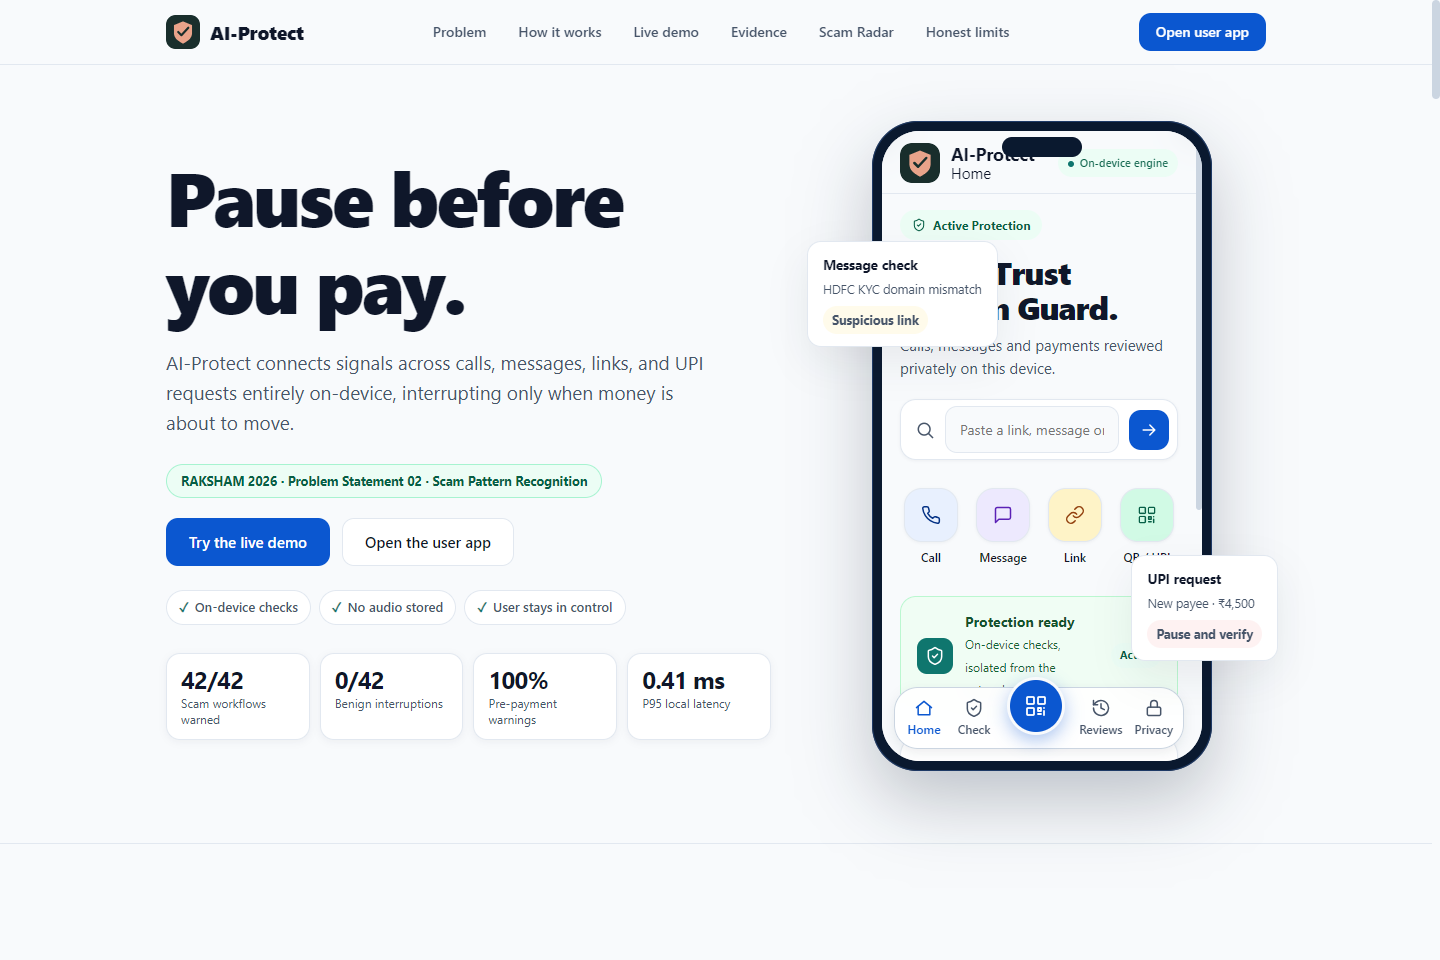
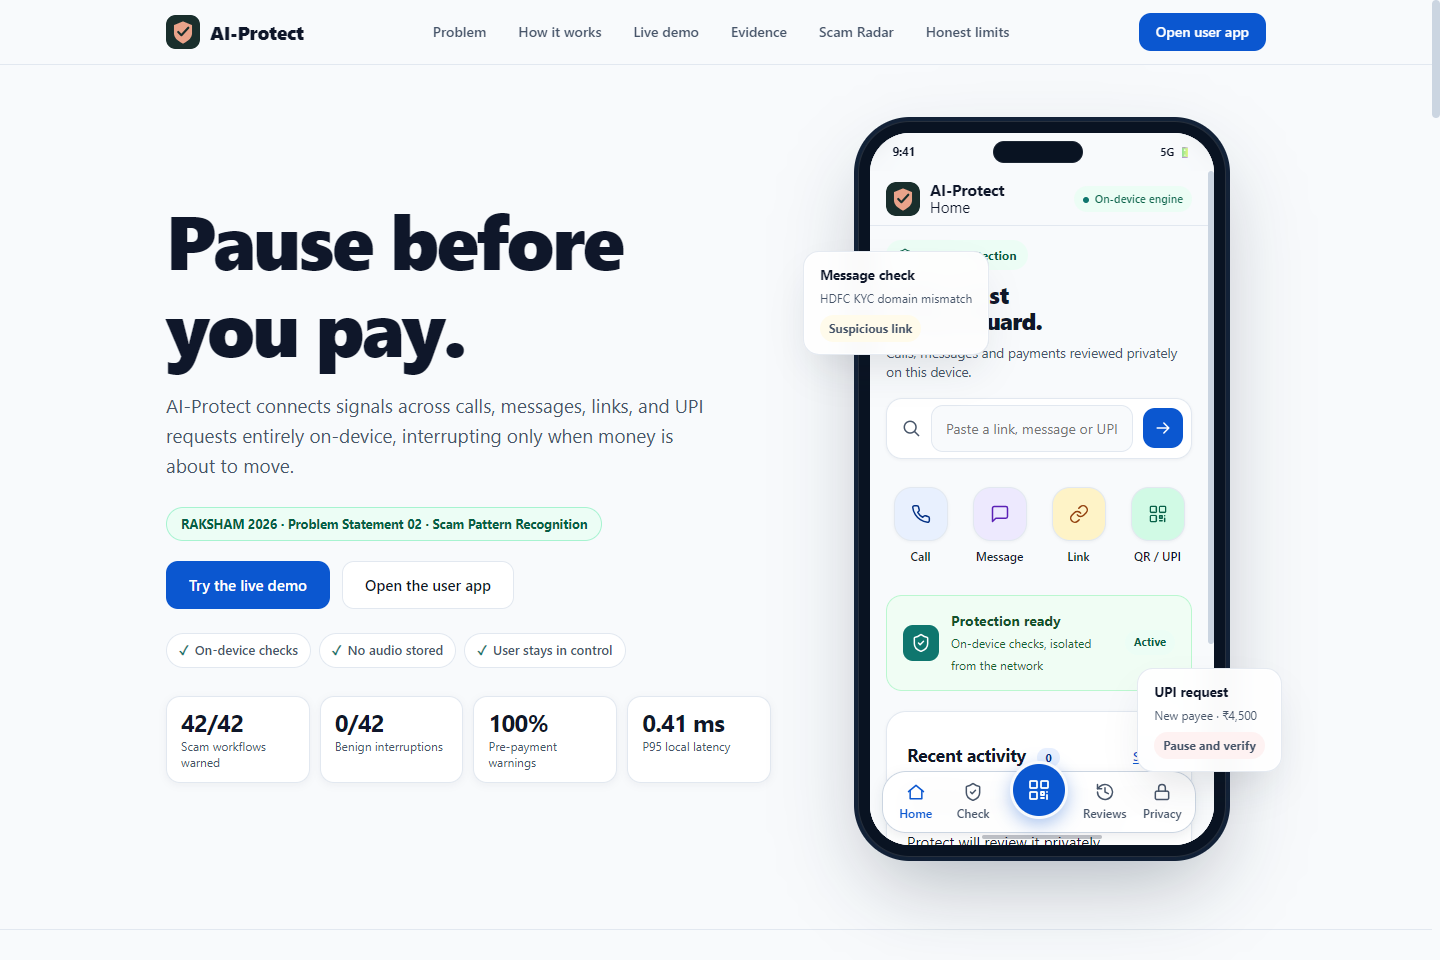
style(impeccable): refine phone mockup shell, balance metrics grid, and polish mobile typography

diff --git a/web/site/site.css b/web/site/site.css
@@ -307,54 +307,111 @@ p { margin: 0 0 14px; }
   display: flex;
   justify-content: center;
   align-items: center;
-  min-height: 640px;
+  min-height: 720px;
 }
 .phone {
   position: relative;
-  width: 340px;
-  height: 650px;
-  border-radius: 46px;
-  background: var(--navy);
-  padding: 10px;
-  box-shadow: 0 30px 70px rgba(10, 25, 47, 0.25), 0 0 0 1px #1e3a66 inset;
+  width: 368px;
+  height: 736px;
+  border-radius: 52px;
+  background: #091322;
+  padding: 12px;
+  box-shadow: 
+    0 35px 85px -15px rgba(10, 25, 47, 0.32),
+    0 0 0 1px rgba(255, 255, 255, 0.12) inset,
+    0 0 0 4px #132238;
+  display: flex;
+  flex-direction: column;
+}
+.phone-inner {
+  position: relative;
+  width: 100%;
+  height: 100%;
+  border-radius: 40px;
+  overflow: hidden;
+  background: var(--canvas);
+  display: flex;
+  flex-direction: column;
+}
+.phone-status-bar {
+  position: absolute;
+  top: 0;
+  left: 0;
+  right: 0;
+  height: 38px;
+  padding: 0 22px;
+  display: flex;
+  align-items: center;
+  justify-content: space-between;
+  z-index: 10;
+  background: rgba(248, 250, 252, 0.94);
+  backdrop-filter: blur(10px);
+  pointer-events: none;
+  font-size: 11.5px;
+  font-weight: 700;
+  color: var(--ink);
+}
+.status-time {
+  font-variant-numeric: tabular-nums;
+  letter-spacing: -0.01em;
+}
+.phone-notch {
+  width: 90px;
+  height: 22px;
+  border-radius: 99px;
+  background: #091322;
+  box-shadow: 0 0 0 1px rgba(255, 255, 255, 0.08) inset;
+}
+.status-icons {
+  display: flex;
+  align-items: center;
+  gap: 4px;
+  font-size: 11px;
 }
 .phone iframe {
   width: 100%;
-  height: 100%;
+  flex: 1;
   border: 0;
-  border-radius: 38px;
+  padding-top: 38px;
   background: var(--canvas);
   display: block;
 }
-.phone-notch {
+.phone-home-indicator {
   position: absolute;
-  top: 16px;
+  bottom: 6px;
   left: 50%;
   transform: translateX(-50%);
-  width: 80px;
-  height: 20px;
+  width: 120px;
+  height: 4px;
   border-radius: 99px;
-  background: var(--navy);
-  z-index: 2;
+  background: rgba(15, 23, 42, 0.25);
   pointer-events: none;
+  z-index: 10;
 }
 .float-card {
   position: absolute;
   display: flex;
   flex-direction: column;
   gap: 3px;
-  background: var(--surface);
-  border: 1px solid var(--line);
-  border-radius: 14px;
-  padding: 12px 15px;
-  box-shadow: var(--shadow);
+  background: rgba(255, 255, 255, 0.95);
+  backdrop-filter: blur(16px);
+  border: 1px solid rgba(226, 232, 240, 0.9);
+  border-radius: 16px;
+  padding: 12px 16px;
+  box-shadow: 0 20px 40px -10px rgba(15, 23, 42, 0.12), 0 0 0 1px rgba(255, 255, 255, 0.6) inset;
   font-size: 13px;
-  max-width: 200px;
+  max-width: 210px;
+  z-index: 5;
+  transition: transform 0.25s cubic-bezier(0.16, 1, 0.3, 1), box-shadow 0.25s ease;
+}
+.float-card:hover {
+  transform: translateY(-3px);
+  box-shadow: 0 24px 44px -8px rgba(15, 23, 42, 0.18);
 }
 .float-card strong { font-size: 13.5px; color: var(--ink); }
-.float-card span { color: var(--muted); font-size: 12.5px; }
-.fc-a { left: -12px; top: 120px; }
-.fc-b { right: -12px; bottom: 110px; }
+.float-card span { color: var(--muted); font-size: 12px; }
+.fc-a { left: -16px; top: 130px; }
+.fc-b { right: -16px; bottom: 85px; }
 
 .tag {
   display: inline-block;
@@ -701,11 +758,40 @@ p { margin: 0 0 14px; }
 }
 
 /* Evidence / Benchmarks */
-.metrics-grid {
+.metrics-grid-3 {
+  display: grid;
+  grid-template-columns: repeat(3, 1fr);
+  gap: 16px;
+  margin-bottom: 24px;
+}
+.metrics-grid-4 {
   display: grid;
   grid-template-columns: repeat(4, 1fr);
   gap: 16px;
-  margin-bottom: 20px;
+  margin-bottom: 24px;
+}
+.metrics-grid {
+  display: grid;
+  grid-template-columns: repeat(auto-fit, minmax(240px, 1fr));
+  gap: 16px;
+  margin-bottom: 24px;
+}
+.scenario-list {
+  scrollbar-width: thin;
+  scrollbar-color: #cbd5e1 transparent;
+}
+.scenario-list::-webkit-scrollbar {
+  width: 6px;
+}
+.scenario-list::-webkit-scrollbar-track {
+  background: transparent;
+}
+.scenario-list::-webkit-scrollbar-thumb {
+  background: #cbd5e1;
+  border-radius: 99px;
+}
+.scenario-list::-webkit-scrollbar-thumb:hover {
+  background: #94a3b8;
 }
 .metric-card {
   background: var(--surface);
@@ -979,21 +1065,22 @@ input[type=password]:focus {
 
 @media (max-width: 1020px) {
   .hero-grid { grid-template-columns: 1fr; }
-  .hero-visual { min-height: 680px; }
+  .hero-visual { min-height: 720px; }
   .nav-links { display: none; }
   .pipeline { grid-template-columns: 1fr 1fr; }
-  .metrics-grid { grid-template-columns: 1fr 1fr; }
+  .metrics-grid, .metrics-grid-3, .metrics-grid-4 { grid-template-columns: 1fr 1fr; }
   .lab { grid-template-columns: 1fr; }
   .scenario-list { max-height: 260px; }
 }
 @media (max-width: 760px) {
   .section { padding: 60px 0; }
   .two-up, .steps-3, .limits, .pipeline, .innovation-grid { grid-template-columns: 1fr; }
+  .metrics-grid, .metrics-grid-3, .metrics-grid-4 { grid-template-columns: 1fr; }
   .hero-metrics { grid-template-columns: 1fr 1fr; }
   .campaign-card { grid-template-columns: 1fr; }
   .campaign-count { text-align: left; }
   .fc-a, .fc-b { display: none; }
-  .phone { width: min(320px, 100%); }
+  .phone { width: min(340px, 100%); }
 }
 @media (prefers-reduced-motion: reduce) {
   *, ::before, ::after {

diff --git a/web/site/index.html b/web/site/index.html
@@ -53,8 +53,15 @@
       </div>
       <div class="hero-visual" aria-label="Live preview of the AI-Protect app">
         <div class="phone" id="phone">
-          <div class="phone-notch"></div>
-          <iframe id="app-preview" src="/app" title="AI-Protect app, live preview" loading="lazy"></iframe>
+          <div class="phone-inner">
+            <div class="phone-status-bar">
+              <span class="status-time">9:41</span>
+              <div class="phone-notch"></div>
+              <span class="status-icons">5G 🔋</span>
+            </div>
+            <iframe id="app-preview" src="/app" title="AI-Protect app, live preview" loading="lazy"></iframe>
+            <div class="phone-home-indicator"></div>
+          </div>
         </div>
         <div class="float-card fc-a">
           <strong>Message check</strong>
@@ -155,27 +162,24 @@
       <div class="innovation-grid reveal">
         <div class="innovation-card">
           <div style="display:flex;align-items:center;gap:8px;">
-            <span class="tag tag-amber">Innovation 01</span>
-            <span style="font-size:12px;color:#93c5fd;font-weight:700;">Deterministic TICE</span>
+            <span class="tag tag-amber">Deterministic Protocol Truth</span>
           </div>
           <h3>Transaction Intent Consistency Engine</h3>
           <p>Flags cross-channel protocol contradictions: verbal credit/refund pretexts against outgoing debit payloads, official authority claims paired with remote-access tools, or investment returns demanding advance unlocking fees.</p>
         </div>
         <div class="innovation-card">
           <div style="display:flex;align-items:center;gap:8px;">
-            <span class="tag tag-green">Innovation 02</span>
-            <span style="font-size:12px;color:#93c5fd;font-weight:700;">Offline Lexical AI</span>
+            <span class="tag tag-green">Zero-Network Lexical AI</span>
           </div>
-          <h3>Zero-Network PhiUSIIL URL Analyzer</h3>
-          <p>Extracts 10 static lexical risk features (domain length, subdomain depth, TLD risk, digit ratio, brand spoofing) locally on-device. Evaluated on held-out URLs from unseen domains with &gt;90% accuracy and 98% precision, requiring 0 DNS lookups and 0 network traffic.</p>
+          <h3>Public Suffix List &amp; PhiUSIIL URL Analyzer</h3>
+          <p>Extracts 10 static lexical risk features and detects brand mismatches (e.g. <code>sbi.co.in</code> spoofing) locally on-device. Evaluated on held-out URLs from unseen domains with &gt;90% accuracy and 98% precision, requiring 0 DNS lookups and 0 network traffic.</p>
         </div>
         <div class="innovation-card">
           <div style="display:flex;align-items:center;gap:8px;">
-            <span class="tag tag-blue">Innovation 03</span>
-            <span style="font-size:12px;color:#93c5fd;font-weight:700;">Unsupervised HDBSCAN</span>
+            <span class="tag tag-blue">Unsupervised Behavioral Radar</span>
           </div>
-          <h3>64-d Trajectory Vectorizer &amp; Scam Radar</h3>
-          <p>Encodes multi-step journeys into 64-dimensional mathematical vectors. River ADWIN streaming drift and HDBSCAN density clustering discover emerging zero-day attack campaigns without receiving raw text or audio.</p>
+          <h3>64-D Trajectory Vectorizer &amp; HDBSCAN</h3>
+          <p>Encodes multi-step journeys into 64-dimensional mathematical vectors. River ADWIN streaming drift and HDBSCAN density clustering discover emerging zero-day attack campaigns without receiving raw text, audio, or bank details.</p>
         </div>
       </div>
     </div>

diff --git a/web/styles.css b/web/styles.css
@@ -68,28 +68,28 @@ a { color: inherit; }
   align-items: center;
   justify-content: space-between;
   gap: 10px;
-  padding: calc(12px + env(safe-area-inset-top)) 18px 10px;
+  padding: calc(10px + env(safe-area-inset-top)) 16px 8px;
   background: rgba(248, 250, 252, 0.94);
   backdrop-filter: blur(12px);
   border-bottom: 1px solid var(--line);
 }
-.brand { display: flex; align-items: center; gap: 11px; text-decoration: none; min-width: 0; }
-.brand img { width: 40px; height: 40px; border-radius: 12px; }
+.brand { display: flex; align-items: center; gap: 10px; text-decoration: none; min-width: 0; }
+.brand img { width: 34px; height: 34px; border-radius: 10px; }
 .brand-text { display: flex; flex-direction: column; line-height: 1.15; }
-.brand-text strong { font-size: 18px; letter-spacing: -0.02em; }
-.brand-text small { font-size: 12px; color: var(--muted); }
+.brand-text strong { font-size: 16px; letter-spacing: -0.02em; }
+.brand-text small { font-size: 11.5px; color: var(--muted); }
 .app-bar-right { display: flex; align-items: center; gap: 8px; }
-.pill { font-size: 11px; font-weight: 600; padding: 6px 10px; border-radius: 99px; white-space: nowrap; }
+.pill { font-size: 11px; font-weight: 600; padding: 5px 9px; border-radius: 99px; white-space: nowrap; }
 .pill-live { background: var(--safe-tint); color: var(--safe-text); }
 .pill-live::before { content: ""; display: inline-block; width: 6px; height: 6px; border-radius: 50%; background: var(--safe); margin-right: 6px; vertical-align: middle; }
-.view { padding: 8px 18px calc(118px + env(safe-area-inset-bottom)); }
+.view { padding: 6px 16px calc(118px + env(safe-area-inset-bottom)); }
 
 /* Type */
-h1 { font-size: 32px; line-height: 1.1; letter-spacing: -0.03em; font-weight: 800; margin: 14px 0 10px; }
-h2 { font-size: 19px; line-height: 1.25; letter-spacing: -0.02em; font-weight: 700; margin: 0 0 10px; }
-h3 { font-size: 16px; margin: 0 0 6px; }
+h1 { font-size: clamp(23px, 5.5vw, 29px); line-height: 1.15; letter-spacing: -0.03em; font-weight: 800; margin: 12px 0 8px; }
+h2 { font-size: 18px; line-height: 1.25; letter-spacing: -0.02em; font-weight: 700; margin: 0 0 10px; }
+h3 { font-size: 15.5px; margin: 0 0 6px; }
 p { margin: 0 0 12px; }
-.lead { color: var(--muted); font-size: 15px; line-height: 1.5; margin-bottom: 20px; }
+.lead { color: var(--muted); font-size: 13.5px; line-height: 1.45; margin-bottom: 16px; }
 .help { font-size: 12.5px; color: var(--muted); line-height: 1.5; }
 .fine-print { font-size: 12px; color: var(--muted); text-align: center; padding: 6px 12px; }
 .eyebrow-chip { display: inline-flex; align-items: center; gap: 7px; margin: 8px 0 0; font-size: 12px; font-weight: 700; padding: 6px 12px; border-radius: 99px; background: var(--safe-tint); color: var(--safe-text); }
